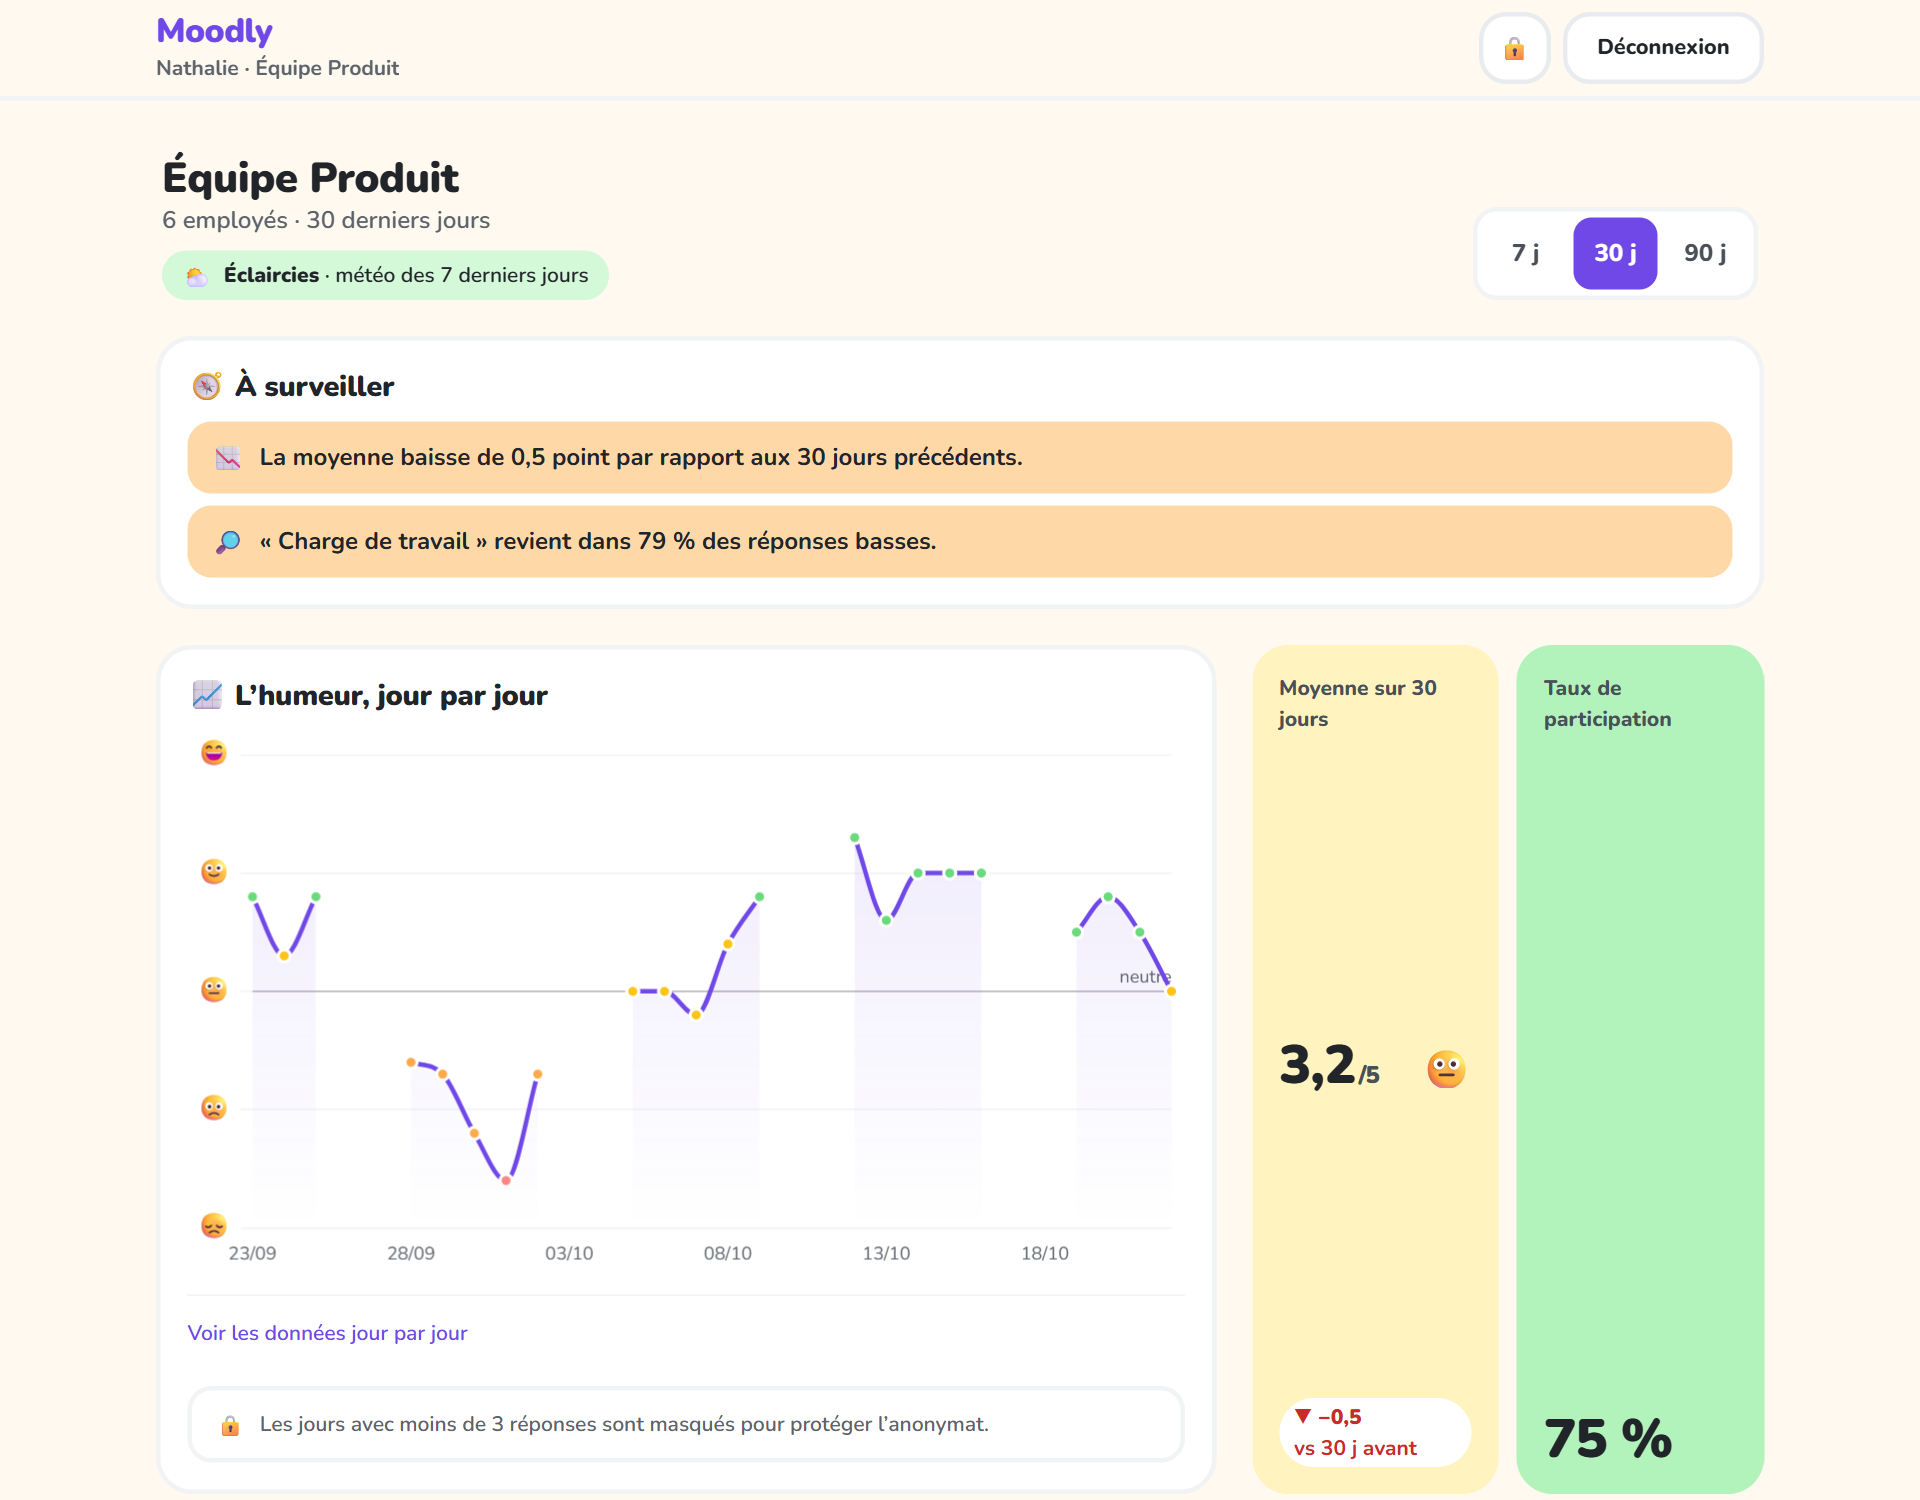
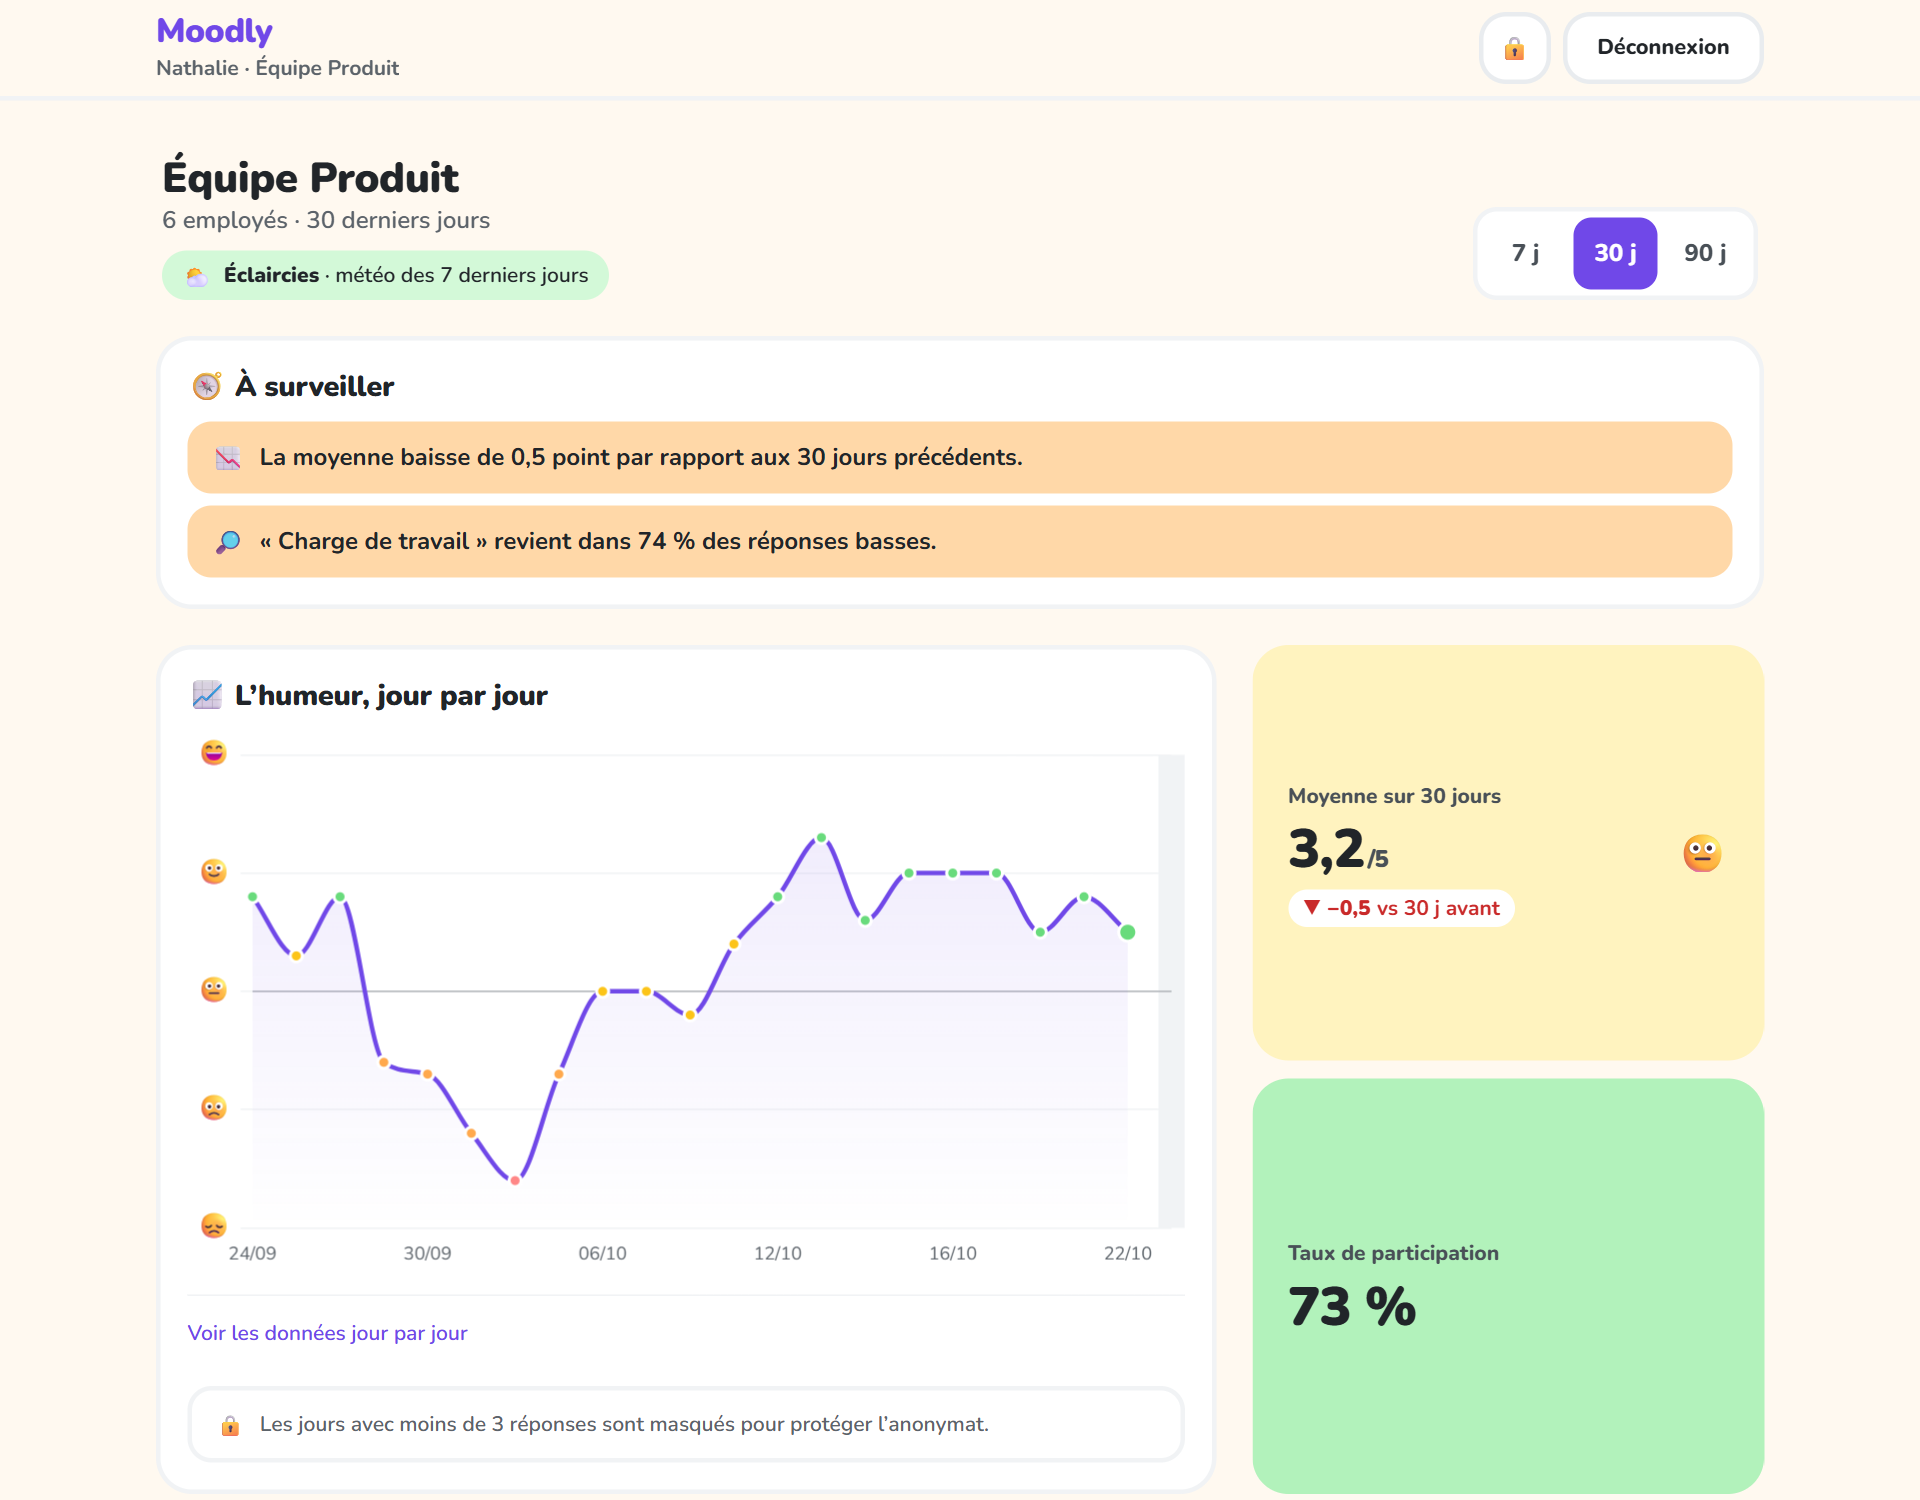
docs: update the chart screenshots and description

diff --git a/docs/rgpd-ethique.md b/docs/rgpd-ethique.md
@@ -47,7 +47,7 @@ Ces règles sont vérifiées par des tests automatiques. L'un d'eux contrôle **
 
 Avec une ou deux réponses dans la journée, un manager pourrait deviner qui a répondu : « seule Alice était là lundi ». Moodly applique donc un **seuil de 3 réponses** :
 
-- un jour sous le seuil est **masqué** dans le graphe : la courbe y fait un trou, et la moyenne comme le nombre de réponses ne sont pas transmis ;
+- un jour sous le seuil est **masqué** dans le graphe : une bande grise remplace le point, et la moyenne comme le nombre de réponses ne sont pas transmis ;
 - si le **total** de réponses de la période est sous le seuil, la moyenne globale et les classements de thèmes ne sont pas affichés ;
 - la **moyenne globale exclut les jours masqués**. Sans cette précaution, on pourrait retrouver la moyenne d'un jour masqué par soustraction, à partir de la moyenne globale et des jours visibles. La moyenne de la **période précédente**, utilisée pour afficher l'évolution, suit la même règle ;
 - la **météo de l'équipe**, visible par les employés, ne donne qu'une **catégorie** parmi 4 (☀ ⛅ ☁ 🌧), jamais un chiffre. Elle porte sur les **jours visibles** des 7 jours précédents et **exclut le jour même** : un salarié ne peut pas comparer la météo avant et après sa propre réponse, ni en déduire celle d'un collègue ;

diff --git a/docs/tutoriel.md b/docs/tutoriel.md
@@ -119,10 +119,11 @@ Le graphe **« L'humeur, jour par jour »** montre l'humeur moyenne de l'équipe
 | Élément | Signification |
 |---|---|
 | Axe vertical | l'échelle des humeurs, de 😞 (1) à 😄 (5) |
-| Axe horizontal | les jours, au format JJ/MM |
+| Axe horizontal | les jours ouvrés (du lundi au vendredi), au format JJ/MM |
 | Points | la moyenne du jour ; leur couleur reprend le niveau d'humeur (rouge quand c'est bas, vert quand c'est haut) |
-| Ligne fine « neutre » | le niveau 3 (😐) : au-dessus, l'équipe va plutôt bien ; en dessous, plutôt mal |
-| **Trous dans la courbe** | des **jours masqués** : moins de 3 réponses ce jour-là (souvent les week-ends), pour protéger l'anonymat |
+| Ligne fine au niveau 😐 | le niveau 3, neutre : au-dessus, l'équipe va plutôt bien ; en dessous, plutôt mal |
+| **Bandes grises** | des **jours masqués** : moins de 3 réponses ce jour-là, pour protéger l'anonymat. La courbe s'interrompt à cet endroit |
+| Point plus gros | le dernier jour connu |
 
 En touchant ou en survolant un point, une bulle affiche le jour, la moyenne et le nombre de réponses.
 
